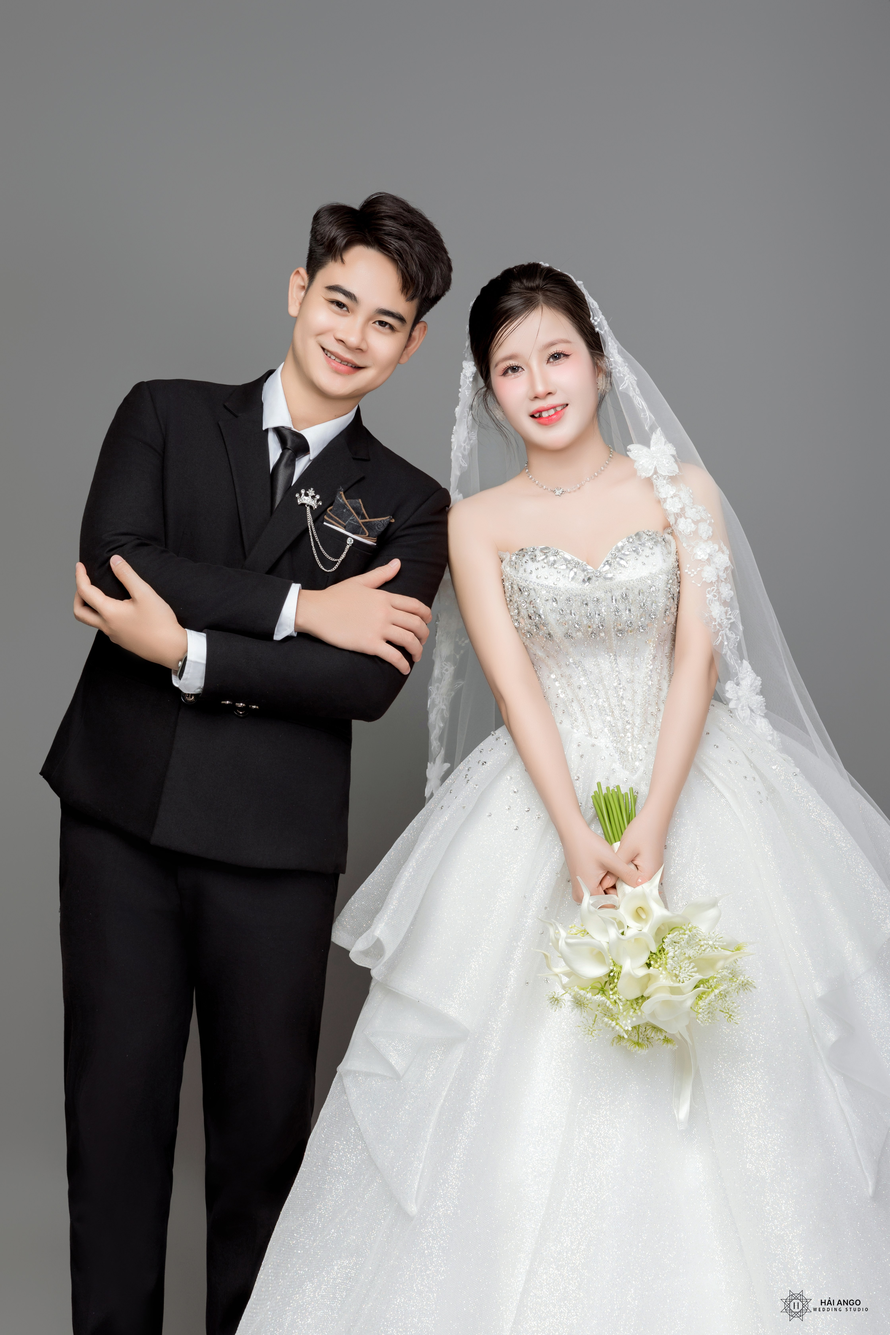
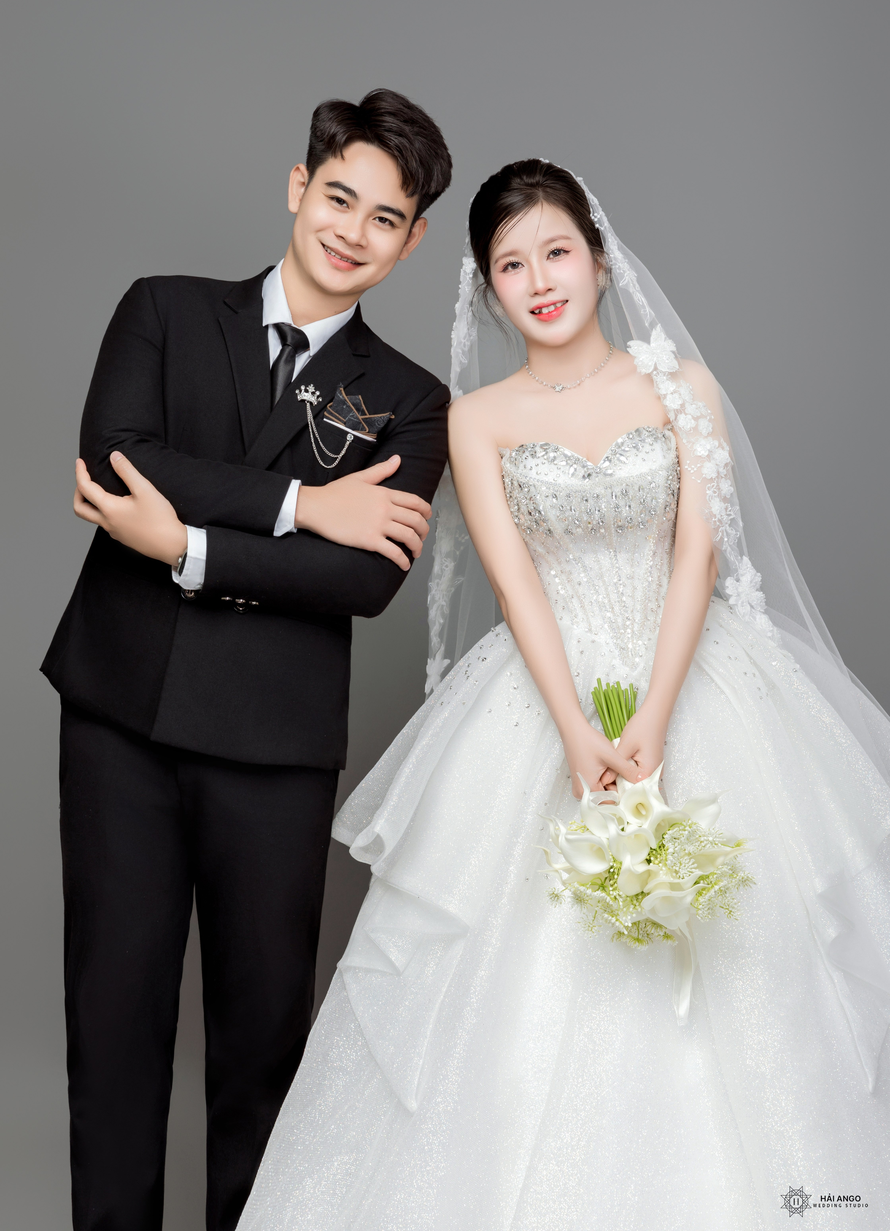
Fix

diff --git a/src/components/HeroSection/HeroSection.tsx b/src/components/HeroSection/HeroSection.tsx
@@ -2,8 +2,6 @@ import Image from "next/image";
 import { CoupleModel } from "@/types/couple";
 import { WeddingModel } from "@/types/wedding";
 import { getDay, getMonth, getYear } from "@/utils/date";
-import { CSSProperties, useState } from "react";
-import { ArrowLeftIcon, ArrowRightIcon } from "@heroicons/react/24/outline";
 import { TypeAnimation } from "react-type-animation";
 
 interface HeroProps {
@@ -28,9 +26,20 @@ export function HeroSection({
       <div
         ref={scrollUpRef}
         id="home"
-        className="relative bg-gradient-to-r from-purple-600 to-blue-600 h-screen text-white overflow-hidden"
+        className="relative h-screen text-white overflow-hidden"
       >
-        <Slider></Slider>
+        {/* Ảnh nền cố định - luôn xuất phát từ đầu */}
+        <div className="absolute inset-0 w-full h-full">
+          <Image
+            src="/images/sliders/1.jpg"
+            alt="Background"
+            className="w-full h-full object-cover object-top" // Đổi từ object-center thành object-top
+            fill
+            sizes="100vw"
+            priority
+          />
+          <div className="absolute inset-0 bg-black opacity-40"></div>
+        </div>
 
         <div className="container mx-auto relative z-10 flex flex-col justify-between items-center h-full text-center p-2 py-10">
           <div className="flex-1 flex flex-col justify-center items-center">
@@ -129,97 +138,6 @@ export function HeroSection({
             </div>
           </div>
         </div>
-      </div>
-    </>
-  );
-}
-
-function Slider() {
-  const [currentIndex, setCurrentIndex] = useState(0);
-  const [sliders] = useState<number[]>(
-    Array.from({ length: 3 }).map((_, i) => i + 1)
-  );
-  const prev = () => {
-    setCurIndex(currentIndex - 1);
-  };
-
-  const next = () => {
-    setCurIndex(currentIndex + 1);
-  };
-
-  const setCurIndex = (index: number) => {
-    if (index < 0) {
-      index = sliders.length - 1;
-    }
-    if (index > sliders.length - 1) {
-      index = 0;
-    }
-
-    setCurrentIndex(index);
-  };
-
-  const changeIndex = (index: number) => {
-    setCurrentIndex(index);
-  };
-
-  return (
-    <>
-      <div className="absolute inset-0 w-full slider-wrapper">
-        <div
-          className={
-            "flex transition-transform duration-700 ease-in-out transform"
-          }
-          style={{ transform: `translateX(-${currentIndex * 100}%)` }}
-        >
-          {sliders.map((_, i) => (
-            <div
-              className="w-full transition-transform duration-700 ease-in-out transform flex-shrink-0 p-0 h-screen slider__image"
-              key={i}
-            >
-              <Image
-                src={`/images/sliders/${i + 1}.jpg`}
-                alt={`Slide ${i + 1}`}
-                className="w-full h-full object-cover object-center" // Luôn căn giữa
-                width={2200}
-                height={2200}
-                priority={i === 0} // Tối ưu tải ảnh đầu tiên
-              />
-            </div>
-          ))}
-        </div>
-        <div className="absolute inset-0 bg-black opacity-40"></div>
-
-        {/* Navigation buttons */}
-        <div className="move max-sm:w-28 max-sm:absolute max-sm:bottom-20 max-sm:-right-5 max-sm:rotate-90">
-          <button
-            onClick={prev}
-            className="z-30 absolute top-1/2 left-4 transform -translate-y-1/2 cursor-pointer bg-black bg-opacity-30 p-2 rounded-full hover:bg-opacity-50 transition-all"
-          >
-            <ArrowLeftIcon className="w-7 h-7 cursor-pointer text-white"></ArrowLeftIcon>
-          </button>
-          <button
-            onClick={next}
-            className="z-30 absolute top-1/2 right-4 transform -translate-y-1/2 cursor-pointer bg-black bg-opacity-30 p-2 rounded-full hover:bg-opacity-50 transition-all"
-          >
-            <ArrowRightIcon className="w-7 h-7 cursor-pointer text-white"></ArrowRightIcon>
-          </button>
-        </div>
-      </div>
-
-      {/* Dots indicator */}
-      <div className="absolute bottom-5 left-1/2 transform -translate-x-1/2 flex space-x-2 z-30">
-        {sliders.map((_, i) => (
-          <button
-            key={i}
-            onClick={() => changeIndex(i)}
-            className={
-              "cursor-pointer w-3 h-3 rounded-full transition-all duration-300 " +
-              (i === currentIndex
-                ? "bg-pink-500 scale-125"
-                : "bg-white bg-opacity-70 hover:bg-opacity-100")
-            }
-          ></button>
-        ))}
       </div>
     </>
   );

diff --git a/src/data/websiteDataInfo.ts b/src/data/websiteDataInfo.ts
@@ -14,7 +14,7 @@ export const CoupleInfo: CoupleModel = {
       "Là một chàng trai hiền lành, chu đáo và đam mê nấu ăn. Sự quan tâm chân thành của anh dành cho mọi người khiến anh luôn được yêu quý và trân trọng.",
     address: "Thôn Cuối, Xã Vĩnh Hưng, Tỉnh Phú Thọ",
     mapAddress:
-      "https://www.google.com/maps/dir//21.2873056,105.5001389/@21.0961213,105.3095159,125372m/data=!3m1!1e3!4m2!4m1!3e0?entry=ttu&g_ep=EgoyMDI1MTEwNC4xIKXMDSoASAFQAw%3D%3D",
+      "https://www.google.com/maps?q=21.287305614321852,105.50013885140255&z=14&t=m&mapclient=embed",
     bankQrCode: {
       src: "/images/qrCodes/HuyMBBank.jpg",
       with: 500,
